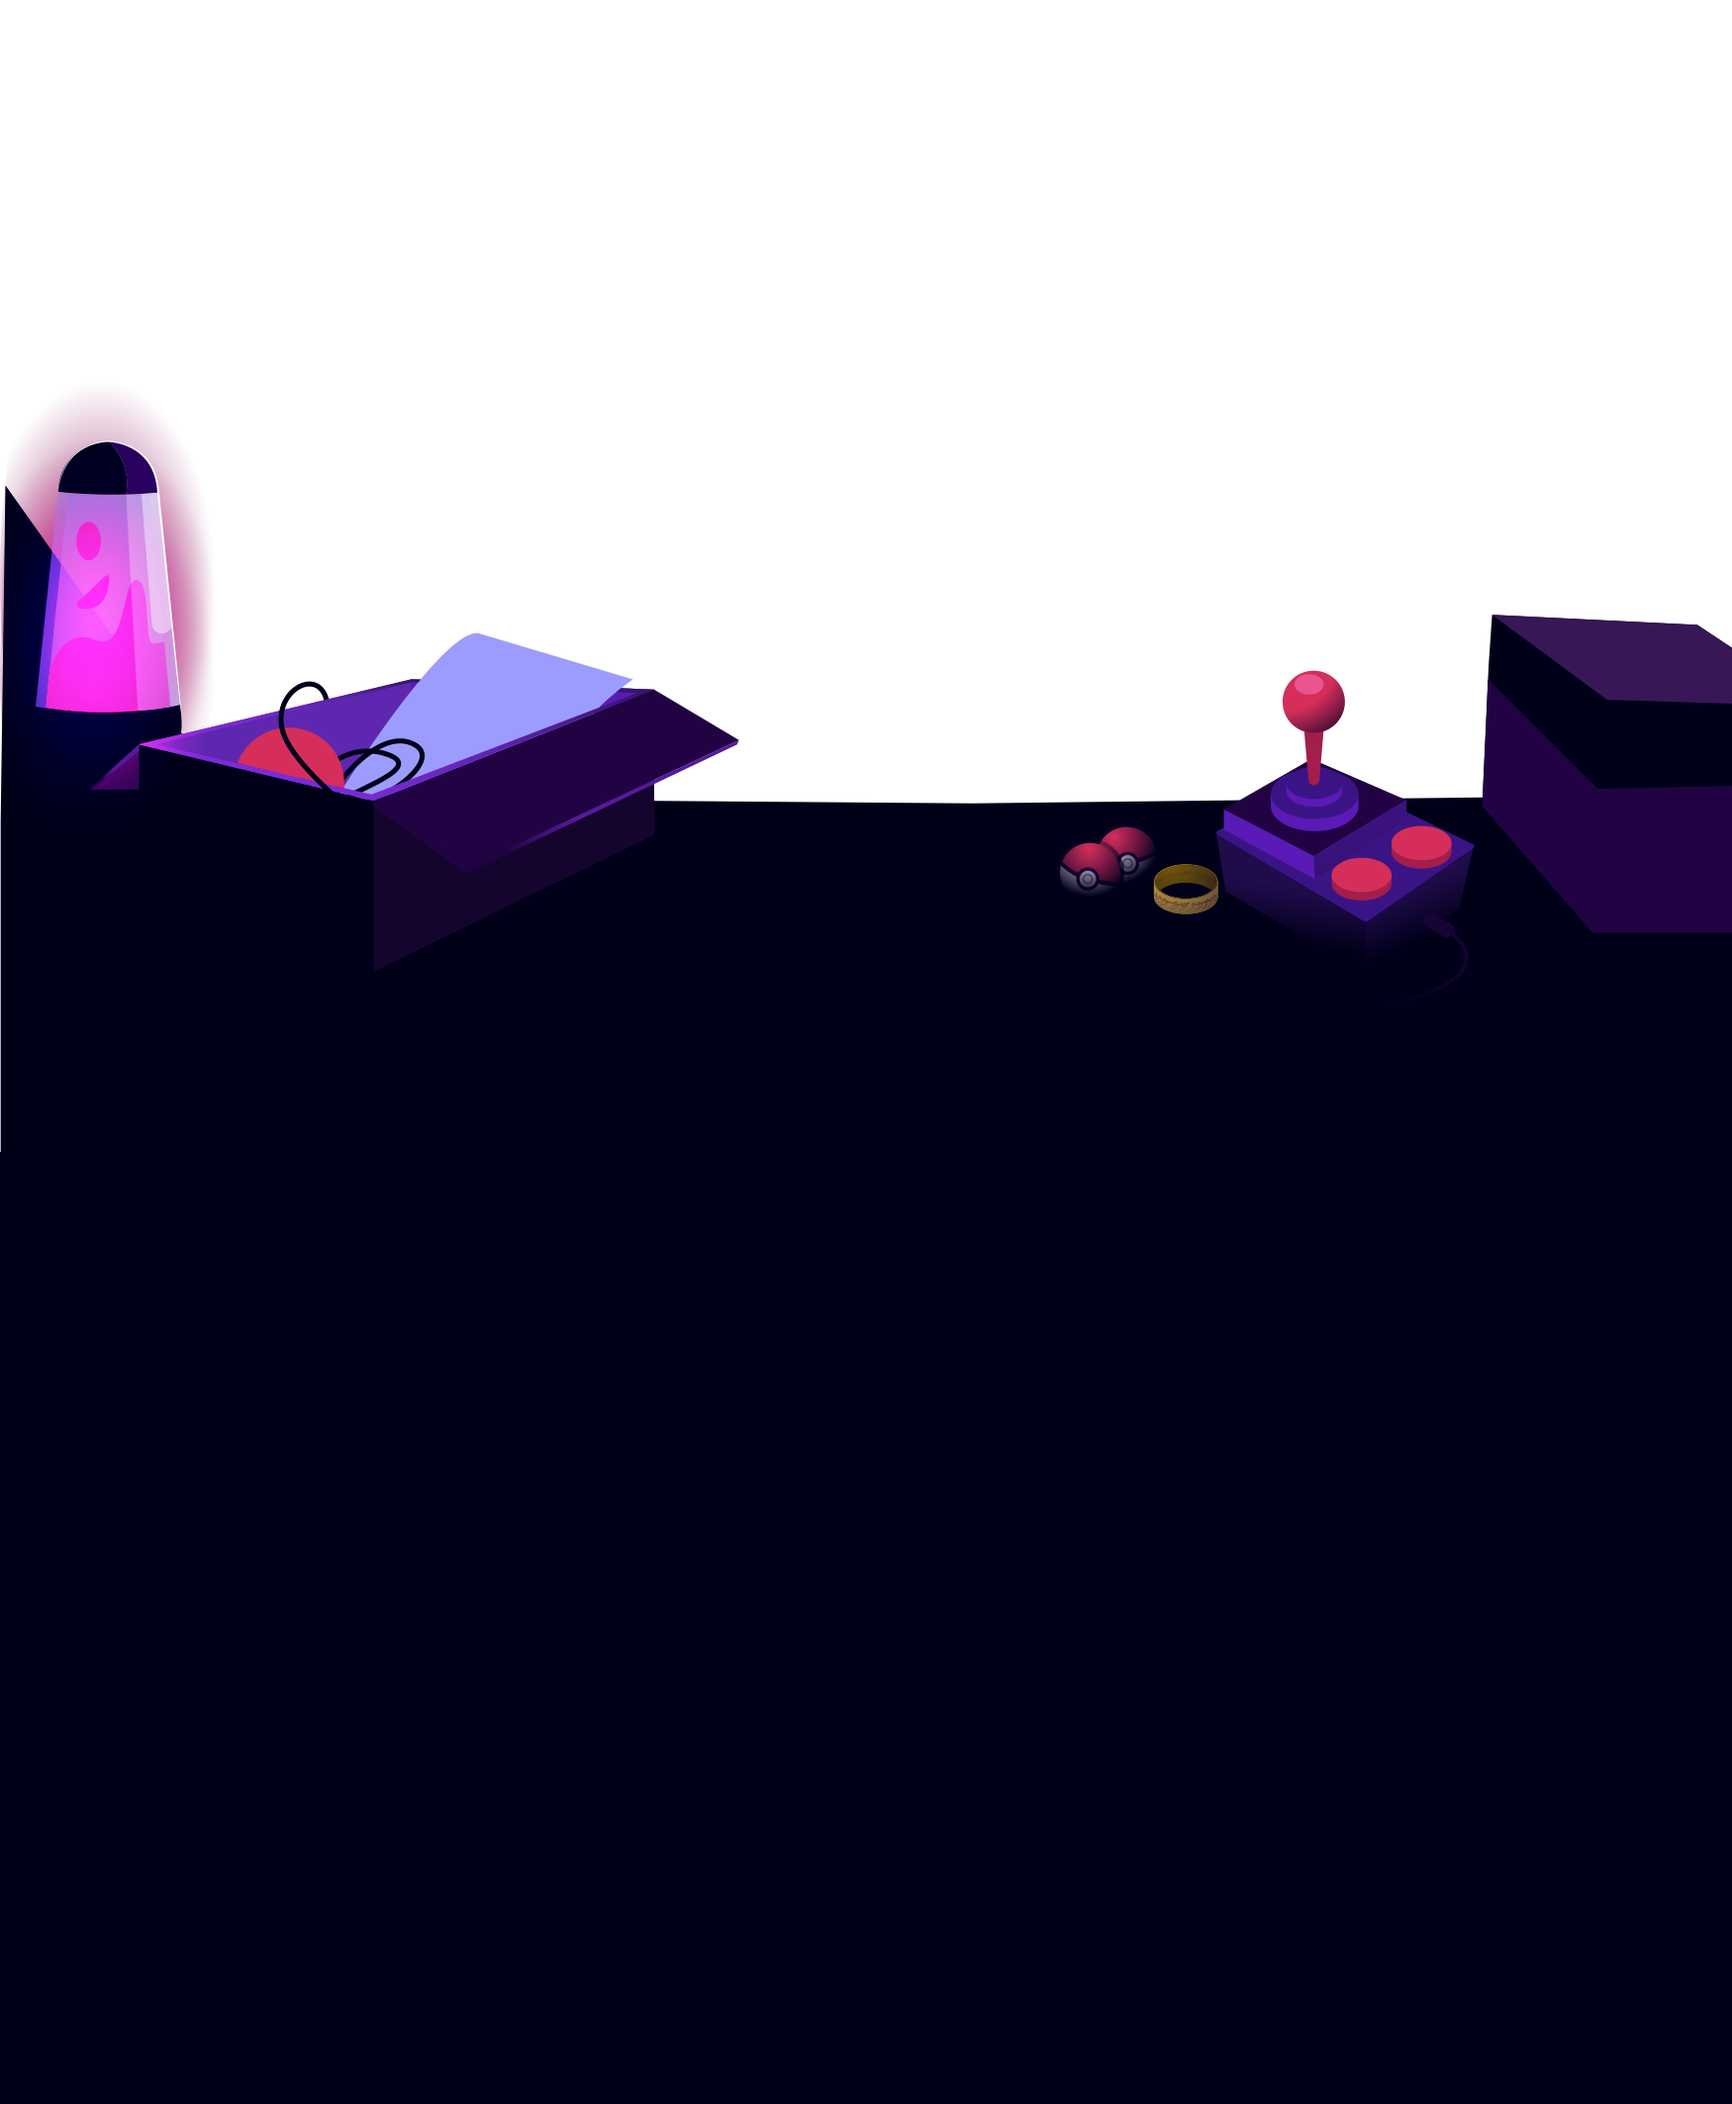
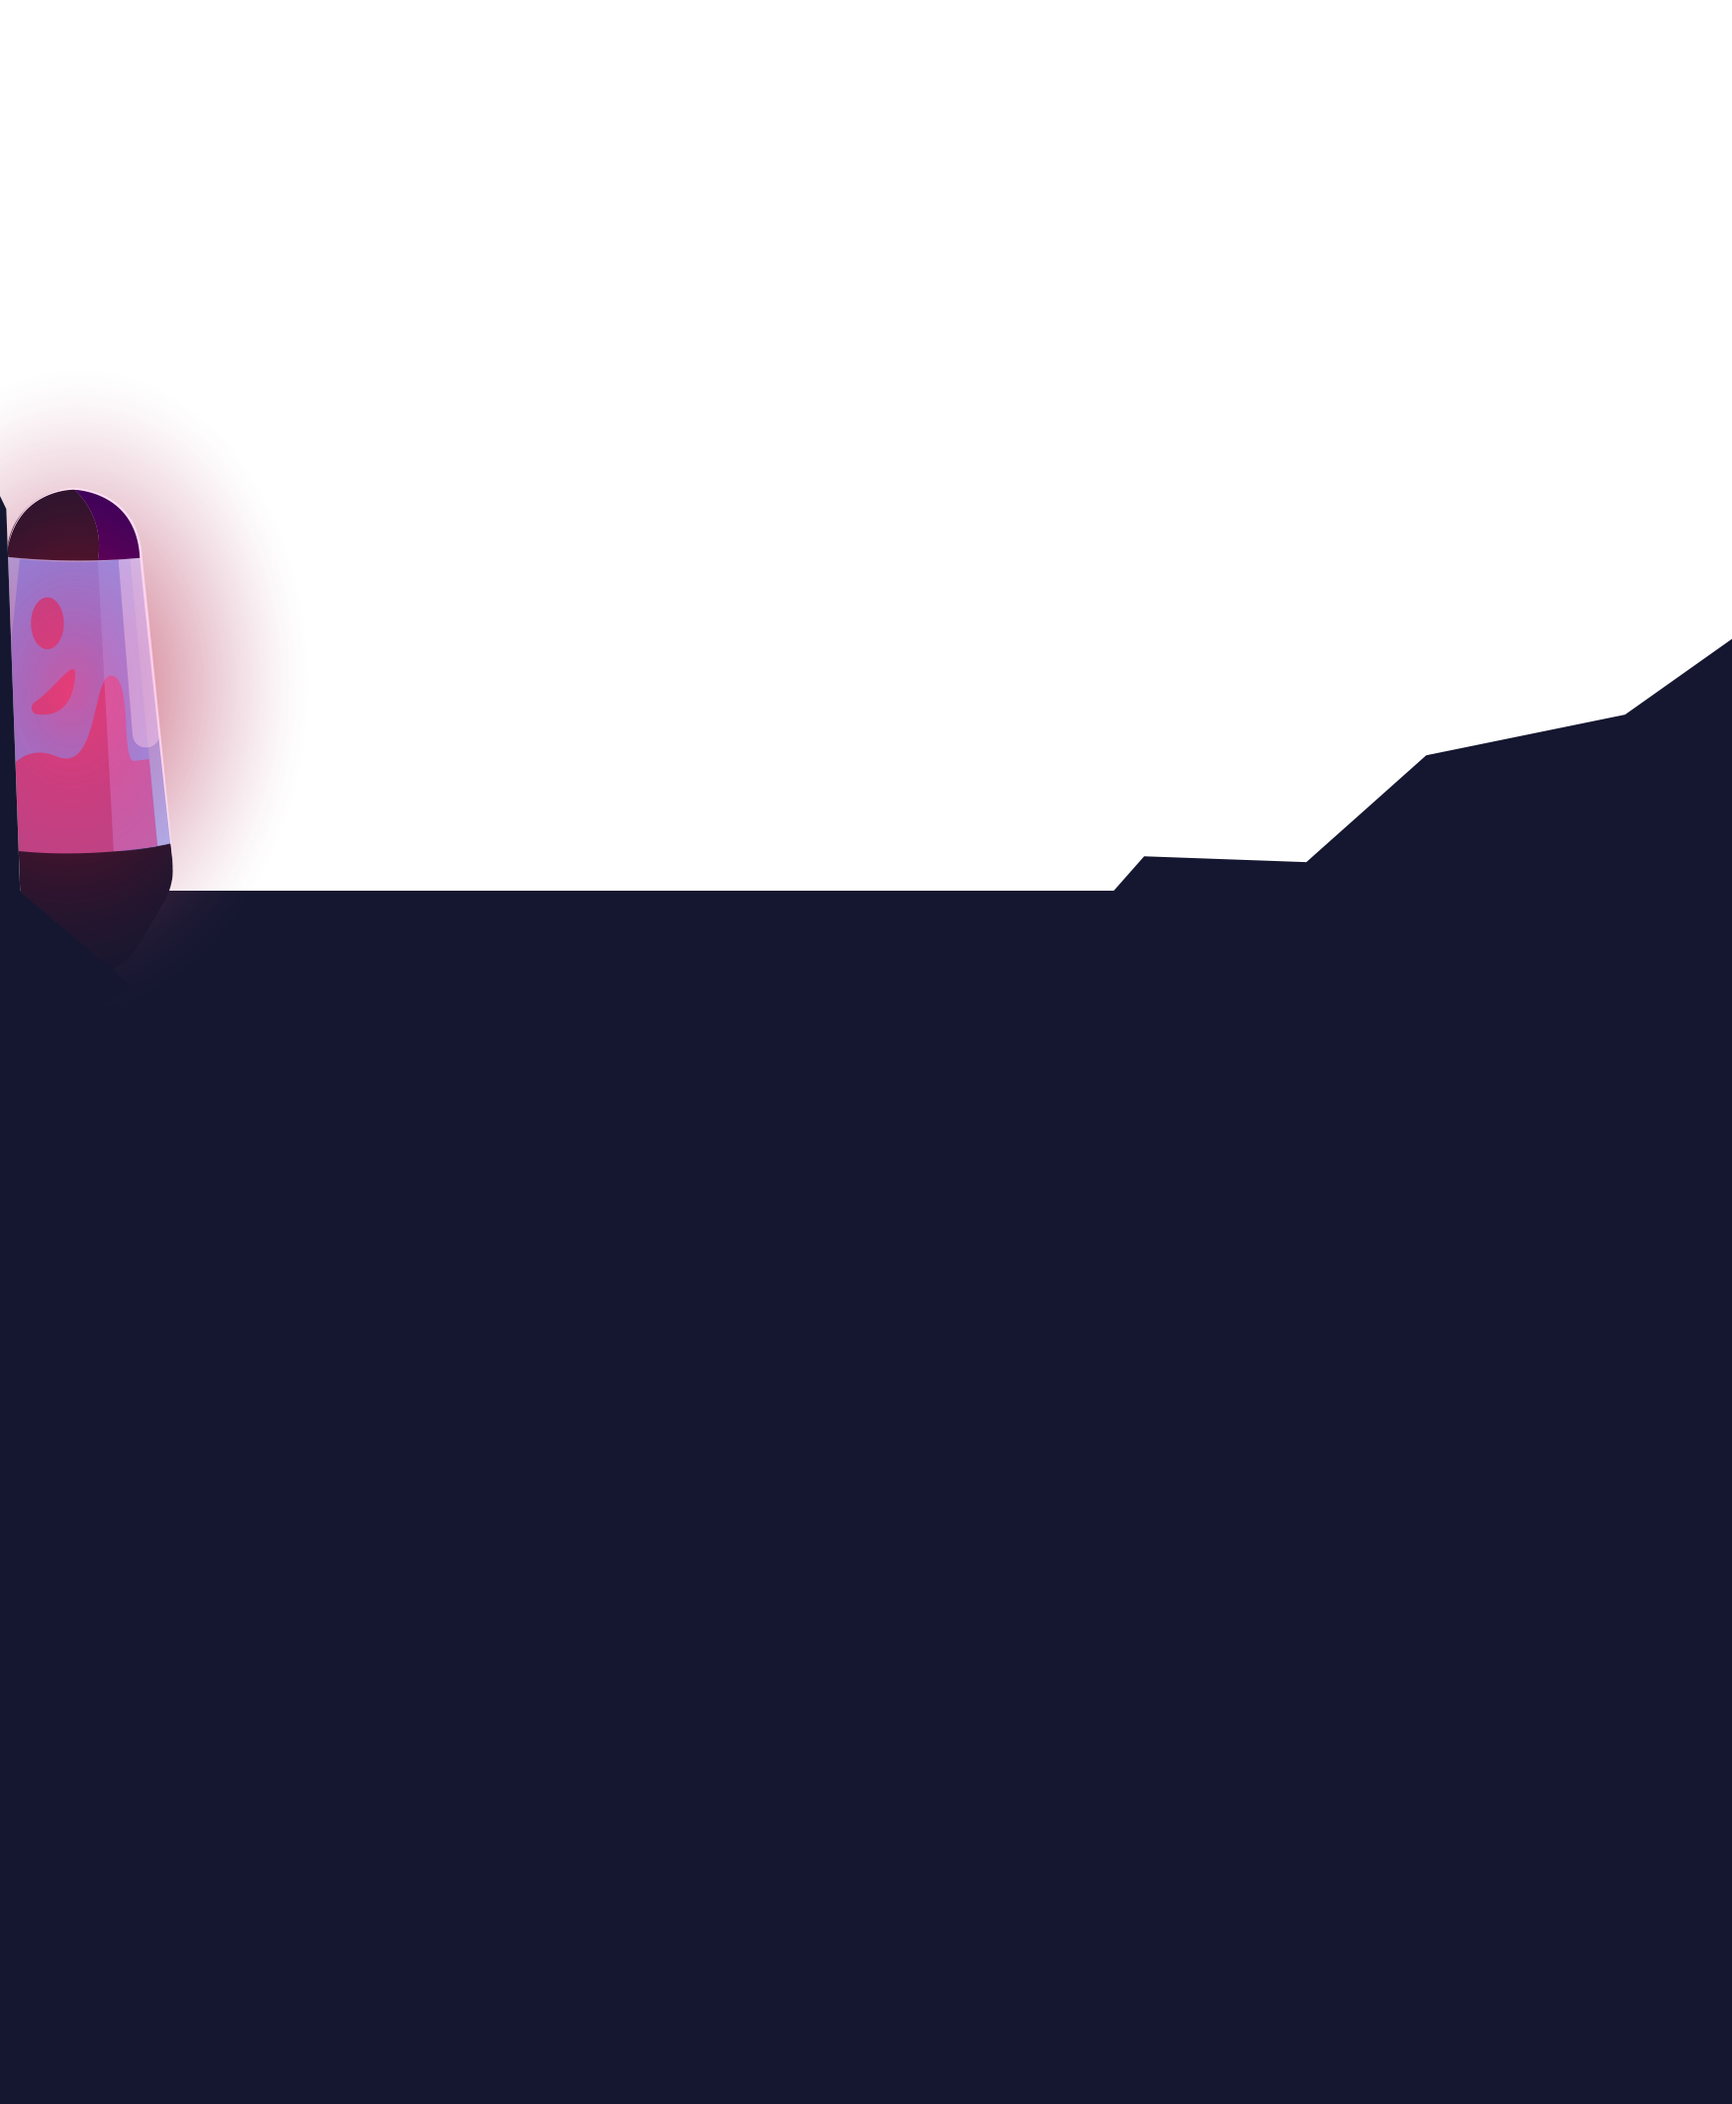
Parallasse e animazione
aggiustata parallasse e animazione

Changed region(s): [[0.0, 0.1863, 1.0, 0.4657]]

diff --git a/style.css b/style.css
@@ -24,65 +24,14 @@ body {
     border: 1px solid white;
     border-radius: 50%;
     position: absolute;
-    transition-duration: 200ms;
-    transition-timing-function: ease-out;
-    animation: cursorAnim .5s infinite alternate;
-    pointer-events: none;
+    
 }
 
-.cursor::after {
 
-    content: "";
-    width: 20px;
-    height: 20px;
-    position: absolute;
-    border: 8px solid gray;
-    border-radius: 50%;
-    opacity: .5;
-    top: -8px;
-    left: -8px;
-    animation: cursorAnim2 .5s infinite alternate;
-}
 
-@keyframes cursorAnim {
-    from {
-        transform: scale(1);
-    }
-    to {
-        transform: scale(.7);
-    }
-}
-
-@keyframes cursorAnim2 {
-    from {
-        transform: scale(1);
-    }
-    to {
-        transform: scale(.4);
-    }
-}
-
-@keyframes cursorAnim3 {
-    0% {
-        transform: scale(1);
-    }
-    50% {
-        transform: scale(3);
-    }
-    100% {
-        transform: scale(1);
-        opacity: 0;
-    }
-}
-
-.expand {
-    animation: cursorAnim3 .2s forwards;
-    border: 1px solid red;
-}
 
 
   
-
 
 /* reset style close color body */
 /* selection */
@@ -188,7 +137,17 @@ li img:hover {
 	width: 100%;
 	transform: translateY(var(--translateY));
 	will-change: transform;
+	
 }
+.position-thumb{
+ top: 310px;
+}
+.position-thumb-image{
+	width: 35% !important;
+	top: 30%;
+	left: 35%;
+}
+
 /* parallax end*/
 /* container section services */
 

diff --git a/index.html b/index.html
@@ -31,7 +31,13 @@
 	
   <!-- navbar end --> 
   <!-- parallax -->
-  <section id="logo-section"> <img class="scene" data-modifier="30" src="img/p2.png" alt=""> <img class="scene" data-modifier="0" src="img/p6.png" alt=""> </section>
+  <section id="logo-section"> 
+  <img class="scene" data-modifier="30" src="img/p2.png" alt="">
+	  <img class="scene position-thumb" data-modifier="25" src="img/p3.png" alt="">
+	  <img class="scene position-thumb-image" data-modifier="26" src="img/illustration_animated.svg"  alt="">
+	  
+  <img class="scene" data-modifier="0" src="img/p6.png" alt="">
+  </section>
 </hero>
 <!-- parallax end --> 
 <!-- services -->
@@ -149,16 +155,10 @@ function scrollFunction() {
 		const cursor = document.querySelector('.cursor');
 
         document.addEventListener('mousemove', e => {
-            cursor.setAttribute("style", "top: "+(e.pageY - 5)+"px; left: "+(e.pageX - 5)+"px;")
+            cursor.setAttribute("style", "top: "+(e.pageY - 0)+"px; left: "+(e.pageX - 0)+"px;")
         })
 
-        document.addEventListener('click', () => {
-            cursor.classList.add("expand");
-
-            setTimeout(() => {
-                cursor.classList.remove("expand");
-            }, 500)
-        })
+        
 	</script>
 		
 <!-- end JS -->
